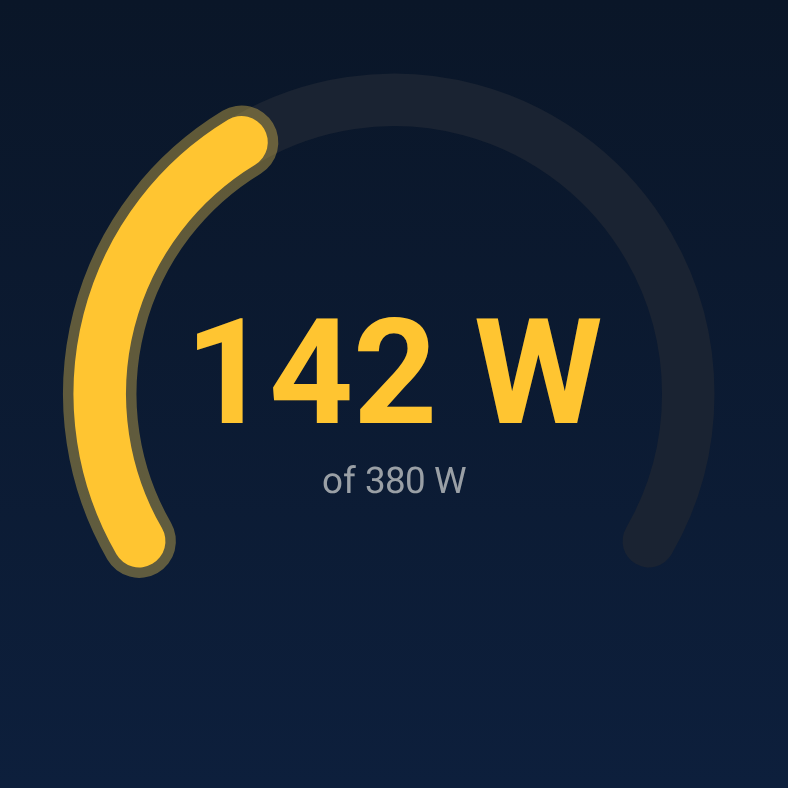
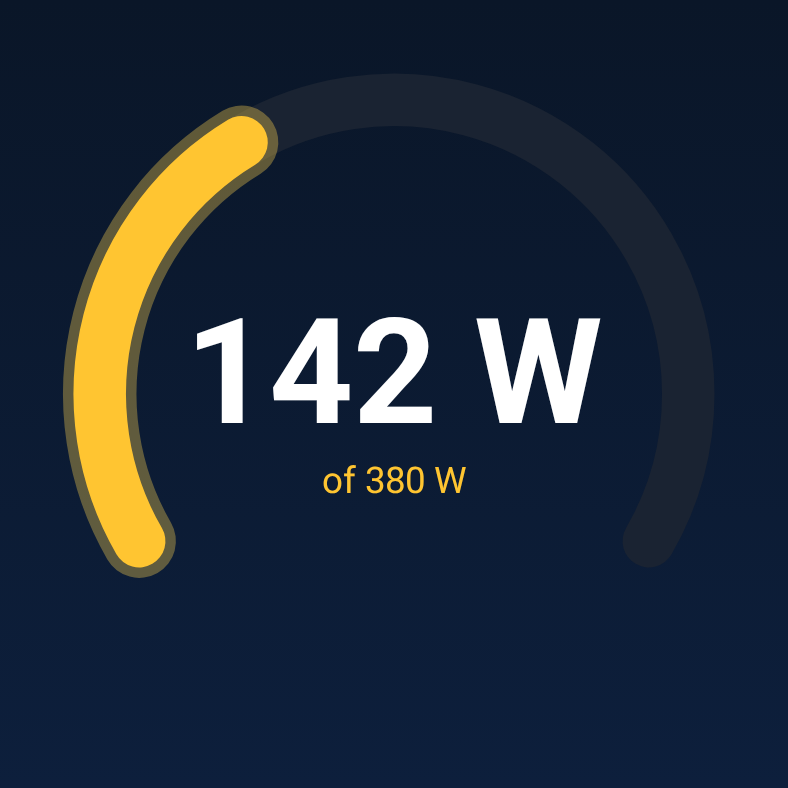
Enlarge watch text, update preview screenshots
Bump all HeroScreen text styles one step up (displayLarge for watts,
bodyLarge for value chips, labelMedium for state/yield/name).
Fix DashboardPreviews for immutable ReadingHistory API.
Regenerate all preview screenshots.

Changed region(s): [[0.2437, 0.3959, 0.5482, 0.5482], [0.6091, 0.3959, 0.7614, 0.5482], [0.3959, 0.5787, 0.6091, 0.6396]]

diff --git a/wear/src/main/kotlin/de/universam/victron/wear/ui/HeroScreen.kt b/wear/src/main/kotlin/de/universam/victron/wear/ui/HeroScreen.kt
@@ -145,7 +145,7 @@ private fun Gauge(
         // Device name doubles as the device switcher when more than one charger is in range.
         Text(
             text = if (deviceCount > 1) "${snapshot.displayName}  ›" else snapshot.displayName,
-            style = MaterialTheme.typography.labelSmall,
+            style = MaterialTheme.typography.labelMedium,
             color = Color(VictronPalette.TEXT_DIM),
             maxLines = 1,
             overflow = TextOverflow.Ellipsis,
@@ -162,15 +162,15 @@ private fun Gauge(
         ) {
             Text(
                 text = values?.pvPowerW?.toString() ?: Formatting.PLACEHOLDER,
-                style = MaterialTheme.typography.displayMedium,
+                style = MaterialTheme.typography.displayLarge,
                 color = solar,
                 maxLines = 1,
             )
             Text(
                 text = " W",
-                style = MaterialTheme.typography.labelMedium,
+                style = MaterialTheme.typography.titleSmall,
                 color = Color(VictronPalette.TEXT_DIM),
-                modifier = Modifier.padding(bottom = 4.dp),
+                modifier = Modifier.padding(bottom = 6.dp),
             )
         }
 
@@ -179,7 +179,7 @@ private fun Gauge(
                 values?.hasError == true -> values.chargerErrorLabel ?: stringResource(R.string.label_error)
                 else -> values?.chargerStateLabel ?: Formatting.PLACEHOLDER
             },
-            style = MaterialTheme.typography.labelSmall,
+            style = MaterialTheme.typography.labelMedium,
             color = if (values?.hasError == true) {
                 Color(VictronPalette.ERROR)
             } else {
@@ -208,7 +208,7 @@ private fun Gauge(
 
         Text(
             text = "${Formatting.energy(values?.yieldTodayWh)} · ${Formatting.age(snapshot, now)}",
-            style = MaterialTheme.typography.labelSmall,
+            style = MaterialTheme.typography.labelMedium,
             color = Color(VictronPalette.YIELD),
             maxLines = 1,
             modifier = Modifier.padding(top = 4.dp),
@@ -303,11 +303,11 @@ private fun ValueChip(text: String, color: Color) {
         modifier = Modifier
             .clip(RoundedCornerShape(10.dp))
             .background(Color(VictronPalette.SURFACE))
-            .padding(horizontal = 8.dp, vertical = 2.dp),
+            .padding(horizontal = 8.dp, vertical = 3.dp),
     ) {
         Text(
             text = text,
-            style = MaterialTheme.typography.labelMedium,
+            style = MaterialTheme.typography.bodyLarge,
             color = color,
             maxLines = 1,
         )

diff --git a/mobile/src/screenshotTest/kotlin/de/universam/victron/mobile/ui/dashboard/DashboardPreviews.kt b/mobile/src/screenshotTest/kotlin/de/universam/victron/mobile/ui/dashboard/DashboardPreviews.kt
@@ -71,13 +71,13 @@ private val staleSnapshot = sampleSnapshot.copy(
 @Preview(showBackground = true, backgroundColor = 0xFF000000, widthDp = 390, heightDp = 800)
 @Composable
 fun PreviewDeviceDashboard() {
-    val history = ReadingHistory().apply {
-        sampleSparkline.forEach { batteryCurrent.add(it) }
-        sampleVoltageSparkline.forEach { batteryVoltage.add(it) }
-        samplePowerSparkline.forEach { pvPowerW.add(it) }
-        sampleYieldSparkline.forEach { yieldTodayWh.add(it) }
-        sampleSparkline.forEach { loadCurrent.add(it * 0.3f) }
-    }
+    val history = ReadingHistory(
+        batteryCurrent = sampleSparkline.toList(),
+        batteryVoltage = sampleVoltageSparkline.toList(),
+        pvPowerW = samplePowerSparkline.toList(),
+        yieldTodayWh = sampleYieldSparkline.toList(),
+        loadCurrent = sampleSparkline.map { it * 0.3f },
+    )
     Box(modifier = Modifier.fillMaxSize().background(BG_BRUSH)) {
         DeviceDashboard(
             snapshot = sampleSnapshot,
